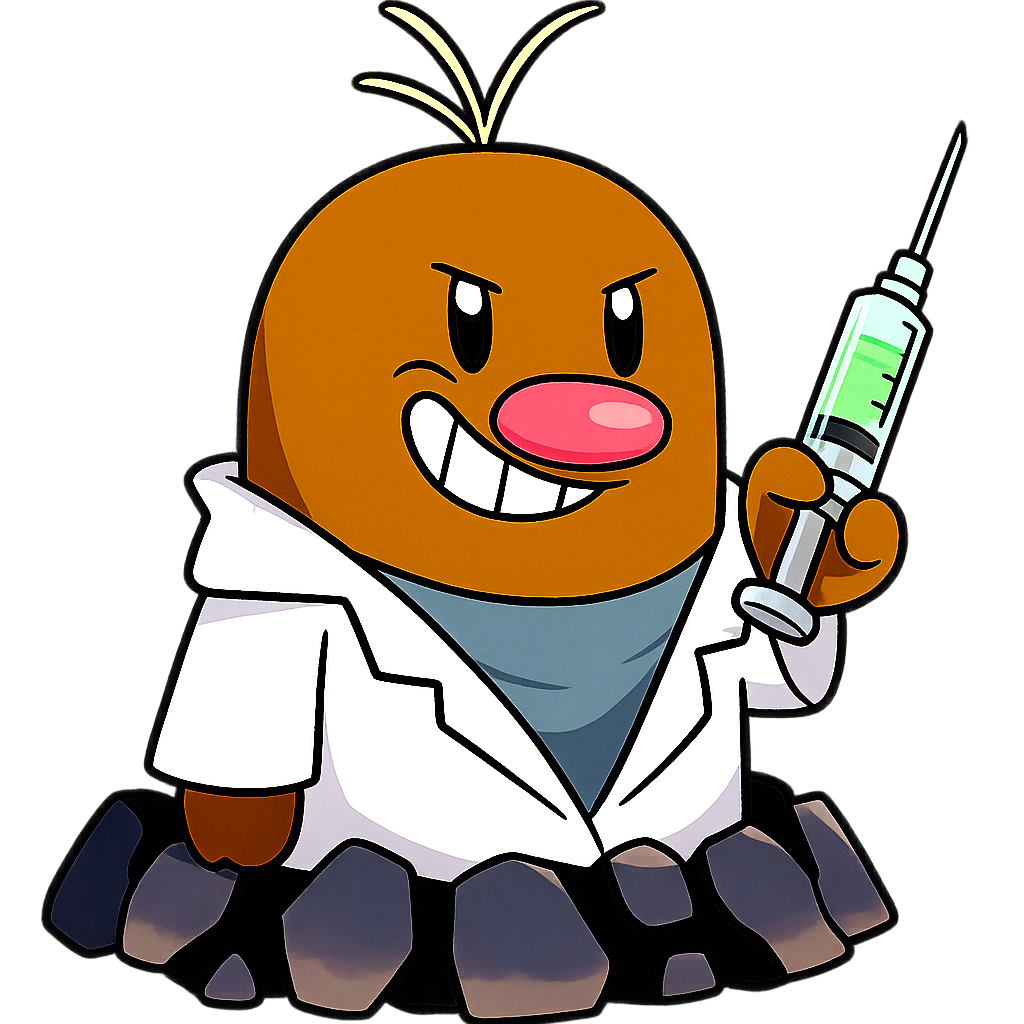
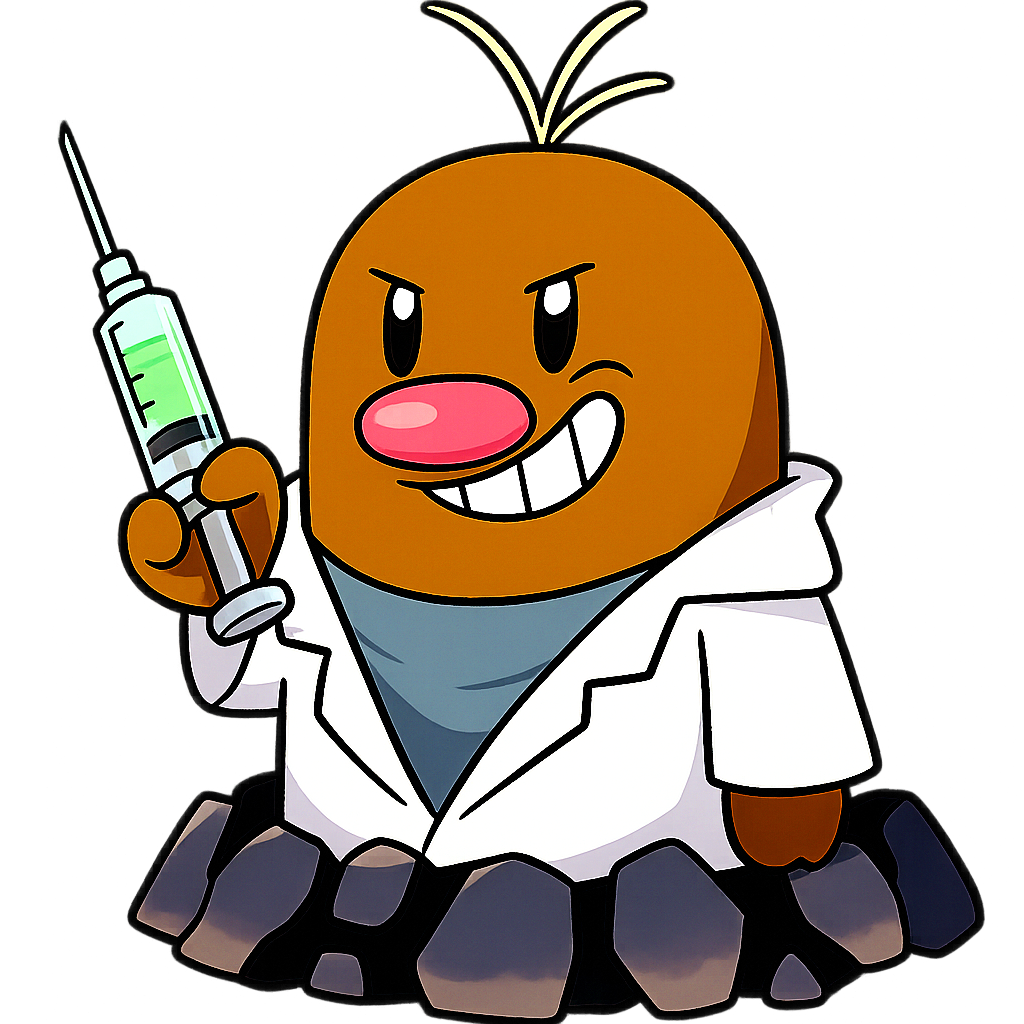
winheal up, + chaange mon iorientaiton

diff --git a/src/stores/trainerBattle.ts b/src/stores/trainerBattle.ts
@@ -6,7 +6,7 @@ export const useTrainerBattleStore = defineStore('trainerBattle', () => {
   const queue = ref<Trainer[]>([])
   const currentIndex = ref(0)
   const levelUpHealPercent = ref(15)
-  const winHealPercent = ref(15)
+  const winHealPercent = ref(33.33)
 
   function setQueue(list: Trainer[]) {
     queue.value = list
